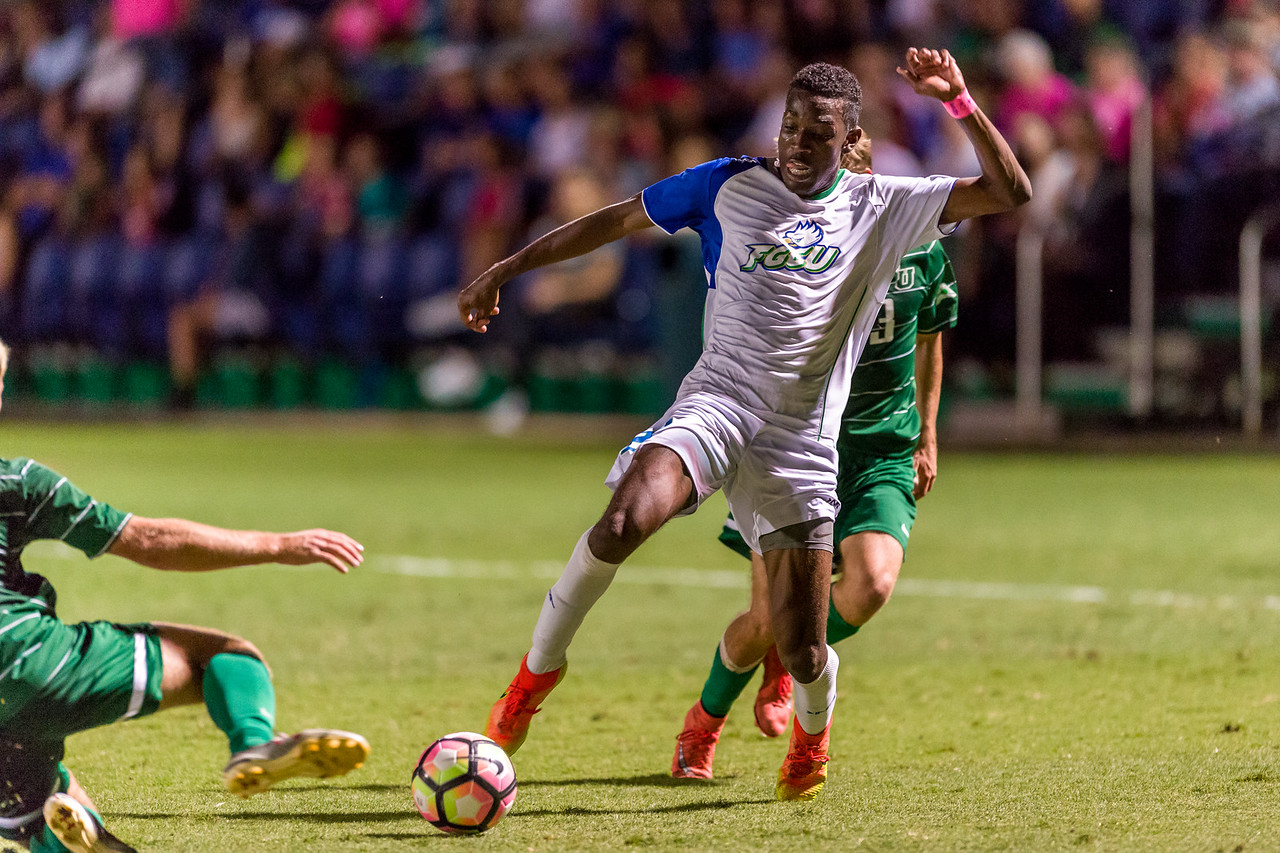
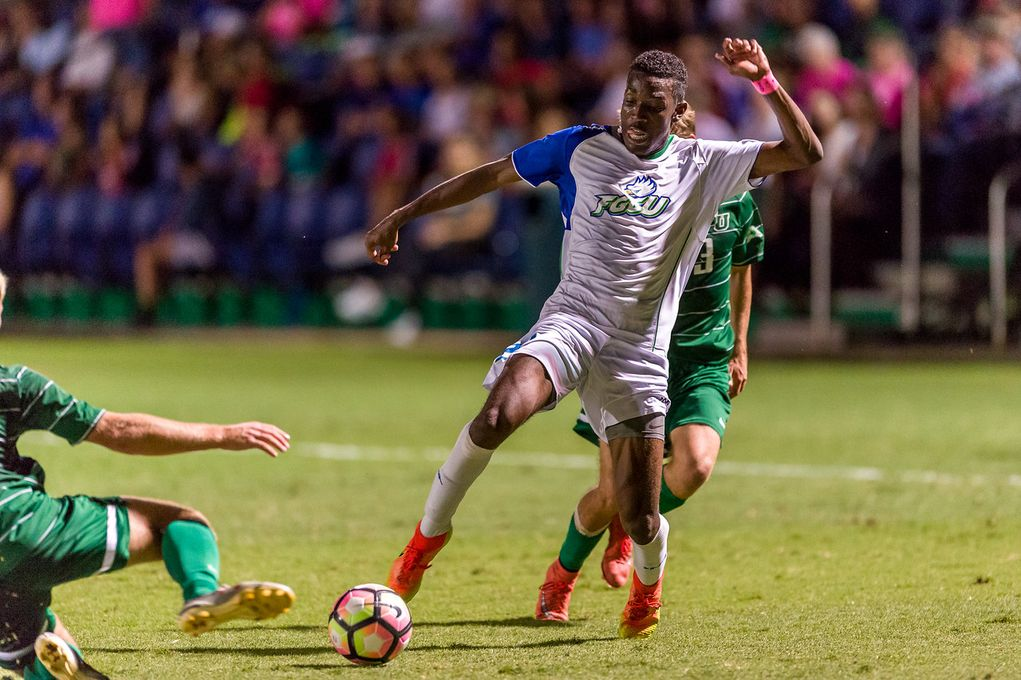
1.5: Resize, recompress and strip metadata from the photos the page uses
Eleven JPEGs replaced in place at about twice their largest rendered
size (measured at 390-1920px viewports), quality 80, with every EXIF,
XMP, ICC, IPTC and comment segment removed, including GPS tags on four
of them. Display P3 sources were converted to sRGB first. Total image
weight on the page drops from 18.5 MB to 1.2 MB. Unused images and the
brand assets are unchanged.

Claude-Session: https://claude.ai/code/session_019xx3AHm2eqKkoR6MPJ95e6

diff --git a/PROGRESS.md b/PROGRESS.md
@@ -46,8 +46,8 @@ Nothing on the site may reference, name, imply or link to the third-party academ
 | 1.1 | 🔴 Phase 1 | Dead Gumroad "Buy Now" links (5 products + $119 bundle all point at bare `https://gumroad.com`) | Done (branch) | 7637fc0 | **Done:** removed the `#products` section (5 products + bundle, 6 dead Gumroad links), its `<style>` block and the 2 commented-out "Programs" nav links (header + FAB): 146 lines. Booking intro now reads "Whether you're looking for private sessions or group training, reach out and we'll find the right fit for your goals." (dropping the phrase left a sentence fragment, so the period became a comma). `IMG_0745.jpg` (the bundle background) is now unused. html-validate 7 → 6 errors (one baseline `<style>` gone). **Caleb: the products don't exist yet.** Delete the whole Digital Programs section (`#products`, its `<style>` block and the commented-out "Programs" nav links in the header and FAB) from the source, not just hide it. Remove "or a digital program" from the booking intro. **To restore later:** the full section is in git history, e.g. `git show 61bcab0:index.html` (lines ~682–820; `61bcab0` = the pre-audit `main` tip), ready to re-add with real Gumroad product URLs. |
 | 1.2 | 🔴 Phase 1 | Add (813) 351-0034: header nav link, a line under the submit button, and the phone as the primary Contact-block row | Done (branch) | 6858187 | **Header** (all widths): phone icon + "(813) 351-0034" → `tel:+18133510034`, plus a "Text" pill → `sms:+18133510034`. **Under submit:** "or text me at (813) 351-0034 for the fastest response" → `sms:` (Caleb's exact wording). **Contact block:** the Email row (the dead inbox) is replaced by a first-position "Call or Text" row: number → `tel:`, "Send a text →" → `sms:`. Rows are now Call or Text, Location, Response Time. All 5 links measure ≥44px tall at 390px (and ≥44 at 1440). **Also pinned:** header "Book Session" hidden below 640px via `#nav .nav-book` (the markup always said `hidden sm:inline-block`, but whether `.btn-primary` overrode it depended on where the Tailwind CDN injects its styles). The FAB covers mobile booking. Whether the live mobile header showed that button before this change is UNVERIFIED. |
 | 1.3 | 🔴 Phase 1 | Kill the dead inbox everywhere | Done (branch) | da2b516 | Code change landed in 1.2 (the Contact-block Email row was the only occurrence). **Verified** across all 36 tracked files except this one: 0 hits for `coachcaleb` (any case), 0 `@cg3academy.com` addresses, 0 `mailto:` links, no JSON-LD or meta email, and 0 hits in the SVG/PNG brand assets. The only email-like string on the page is the form placeholder `you@example.com`. The form config holds only the Formspree endpoint `meevyrnw` (2 places: form `action` + fetch). **Formspree recipient:** Caleb switched "Send to" to his personal inbox on 2026-09-26 (same form ID, no code change). The suspended address is only his Formspree login. Delivery is UNVERIFIED until Caleb's live test submission. The dead inbox still appears in old versions of `index.html` in git history; it's a suspended business address, not personal data, so it's not scrubbed. |
-| 1.4 | 🔴 Phase 1 | Never display the personal Gmail; the phone replaces the Email row | Done (branch) | (1.4 commit) | **Verified (rendered page, 390 + 1440):** the full DOM after scripts run contains no email address except the form placeholder `you@example.com` (not visible text), and no Gmail fragment. Contact rows are Call or Text, Location, Response Time, so no second contact row is needed. What Formspree itself shows or sends is UNVERIFIED (unreachable from the sandbox). The personal Gmail has 0 hits in the current files **and** in git history as of 0.3 (commit metadata, messages and every past file version; checked on a fresh clone after the 0.3 push). The earlier "0 hits" in Phase 0 was a current-files-only check. The form's recipient lives on Formspree's side. If a 2nd row is needed, link to `#booking`, not an address. |
-| 1.5 | 🔴 Phase 1 (added by Caleb) | Image optimization: resize and compress every image to its display size | Not started | — | **Caleb's spec:** only images the page actually uses. Replace in place (same paths) at about 2× their largest display size, JPEG quality ~80, **strip all EXIF** (7 repo photos carry GPS tags). Leave unused images untouched and list them in the phase report. Priority: `CG3 Assets/Client Testimonial/IMG_2758.JPG` (5.0 MB shown as a 96px avatar). |
+| 1.4 | 🔴 Phase 1 | Never display the personal Gmail; the phone replaces the Email row | Done (branch) | daa77fe | **Verified (rendered page, 390 + 1440):** the full DOM after scripts run contains no email address except the form placeholder `you@example.com` (not visible text), and no Gmail fragment. Contact rows are Call or Text, Location, Response Time, so no second contact row is needed. What Formspree itself shows or sends is UNVERIFIED (unreachable from the sandbox). The personal Gmail has 0 hits in the current files **and** in git history as of 0.3 (commit metadata, messages and every past file version; checked on a fresh clone after the 0.3 push). The earlier "0 hits" in Phase 0 was a current-files-only check. The form's recipient lives on Formspree's side. If a 2nd row is needed, link to `#booking`, not an address. |
+| 1.5 | 🔴 Phase 1 (added by Caleb) | Image optimization: resize and compress every image to its display size | Done (branch) | (1.5 commit) | **11 JPEGs the page uses, replaced in place, 18.5 MB → 1.2 MB.** Target = 2× the largest rendered box measured at 7 viewports (390–1920), never upscaled. Re-encoded q80, progressive, optimized. The 2 Display P3 photos (`IMG_3879.jpg`, `IMG_3890.jpg`) were converted to sRGB first. **All metadata stripped:** 0 APP1 (EXIF/XMP), APP2 (ICC), APP13 (IPTC) or COM segments left. That includes GPS on the 4 used photos that had it (`IMG_1635`, `IMG_4063`, `IMG_4066`, `IMG_4069`). Details: avatars `IMG_2758` 4032×6048/4890 KB → 184×276/13 KB, `IMG_8428` → 276×184/7 KB, `UNADJUSTEDNONRAW_thumb_455` → 276×184/13 KB; booking `IMG_1635` 3933×3146/6550 KB → 1136×909/147 KB; strip `IMG_9903` 2625×3280/3798 KB → 960×1200/142 KB, `IMG_4063`/`IMG_4069` → 1021×680, `IMG_4066` same size q80 (395 → 222 KB); about `IMG_3879` same size (361 → 172 KB), `IMG_3890` → 554×465; hero `IMG_9896` same size (415 → 223 KB; full-bleed, so 2× would exceed the source). Before/after screenshots identical in crop, orientation and colour. **Untouched per Caleb:** 11 unused photos (`IMG_0745` (unused since 1.1), `IMG_1045`, `IMG_1118`, `IMG_4070`, `IMG_4071`, `IMG_9893`, `ed.jpg`, `th.jpg`, `Untitled.jpg`, `u.jpg`, `d43e4400-….JPG`) and all `Brand_assets` PNG/SVG. **Still GPS-tagged:** unused `IMG_1118`, `IMG_4070`, `IMG_4071` (publicly served, since Pages publishes every repo file), plus the original versions of the 4 used photos in git history. |
 | 1.6 | 🔴 Phase 1 (added by Caleb) | Trust stats | Not started | — | Change "100% Satisfaction Guaranteed" so it no longer claims a guarantee. Remove "5★ Average Rating" until there are real public reviews. Keep "50+ Players Trained": Caleb confirmed it's true (2026-09-26). The trust bar is a 3-column grid, so check the layout once a tile is gone. |
 | — | Phase review | Phase 1 boundary review (`phase-review.md`) | Not started | — | |
 | 2.1 | 🟠 Phase 2 | Replace "Tampa · St. Pete · Clearwater · Brandon" with the 6 GBP areas | Not started | — | Hits: meta description (L7), hero eyebrow (L381), training footnote (L675), Contact "Location" (L936), footer bottom line (L1093). og/twitter descriptions say "Tampa Bay" (handled in 2.2). The credential ticker's "St. Pete Aztecs UPSL" ×2 (L433, L443) **stays**: it's a credential, not a service area (Caleb, 2026-09-26), and it's excluded from the Phase 4 "St. Pete" check. Six areas in the hero eyebrow will wrap at 390px, so check layout. |
@@ -148,6 +148,7 @@ After 0.3: `Caleb George <277883012+calebmgeorge96-spec@users.noreply.github.com
 - [x] ~~Cloudflare~~: Worker deleted by Caleb (reviewer verified 404s); PR #1 closed 2026-09-26.
 - [ ] **Deploy.** Merge this branch to `main` for GitHub Pages to publish (Caleb approves each merge).
 - [ ] **Trust stats (rest):** confirm "10+ Years Competing" and the hero's "MLS Level Opposition" stat are how you want them worded.
+- [ ] **GPS still public (from 1.5):** the unused `IMG_1118.JPG`, `IMG_4070.JPG` and `IMG_4071.JPG` keep their GPS tags and are publicly served (GitHub Pages publishes every repo file). The pre-1.5 originals of the 4 used GPS photos stay in git history. Options: delete or strip the unused files, and/or another history rewrite. Your call.
 - [ ] **Later.** Set up the proper domain email, then swap it back into the Contact block (and schema, if wanted).
 
 ## Open [[TBD]]
